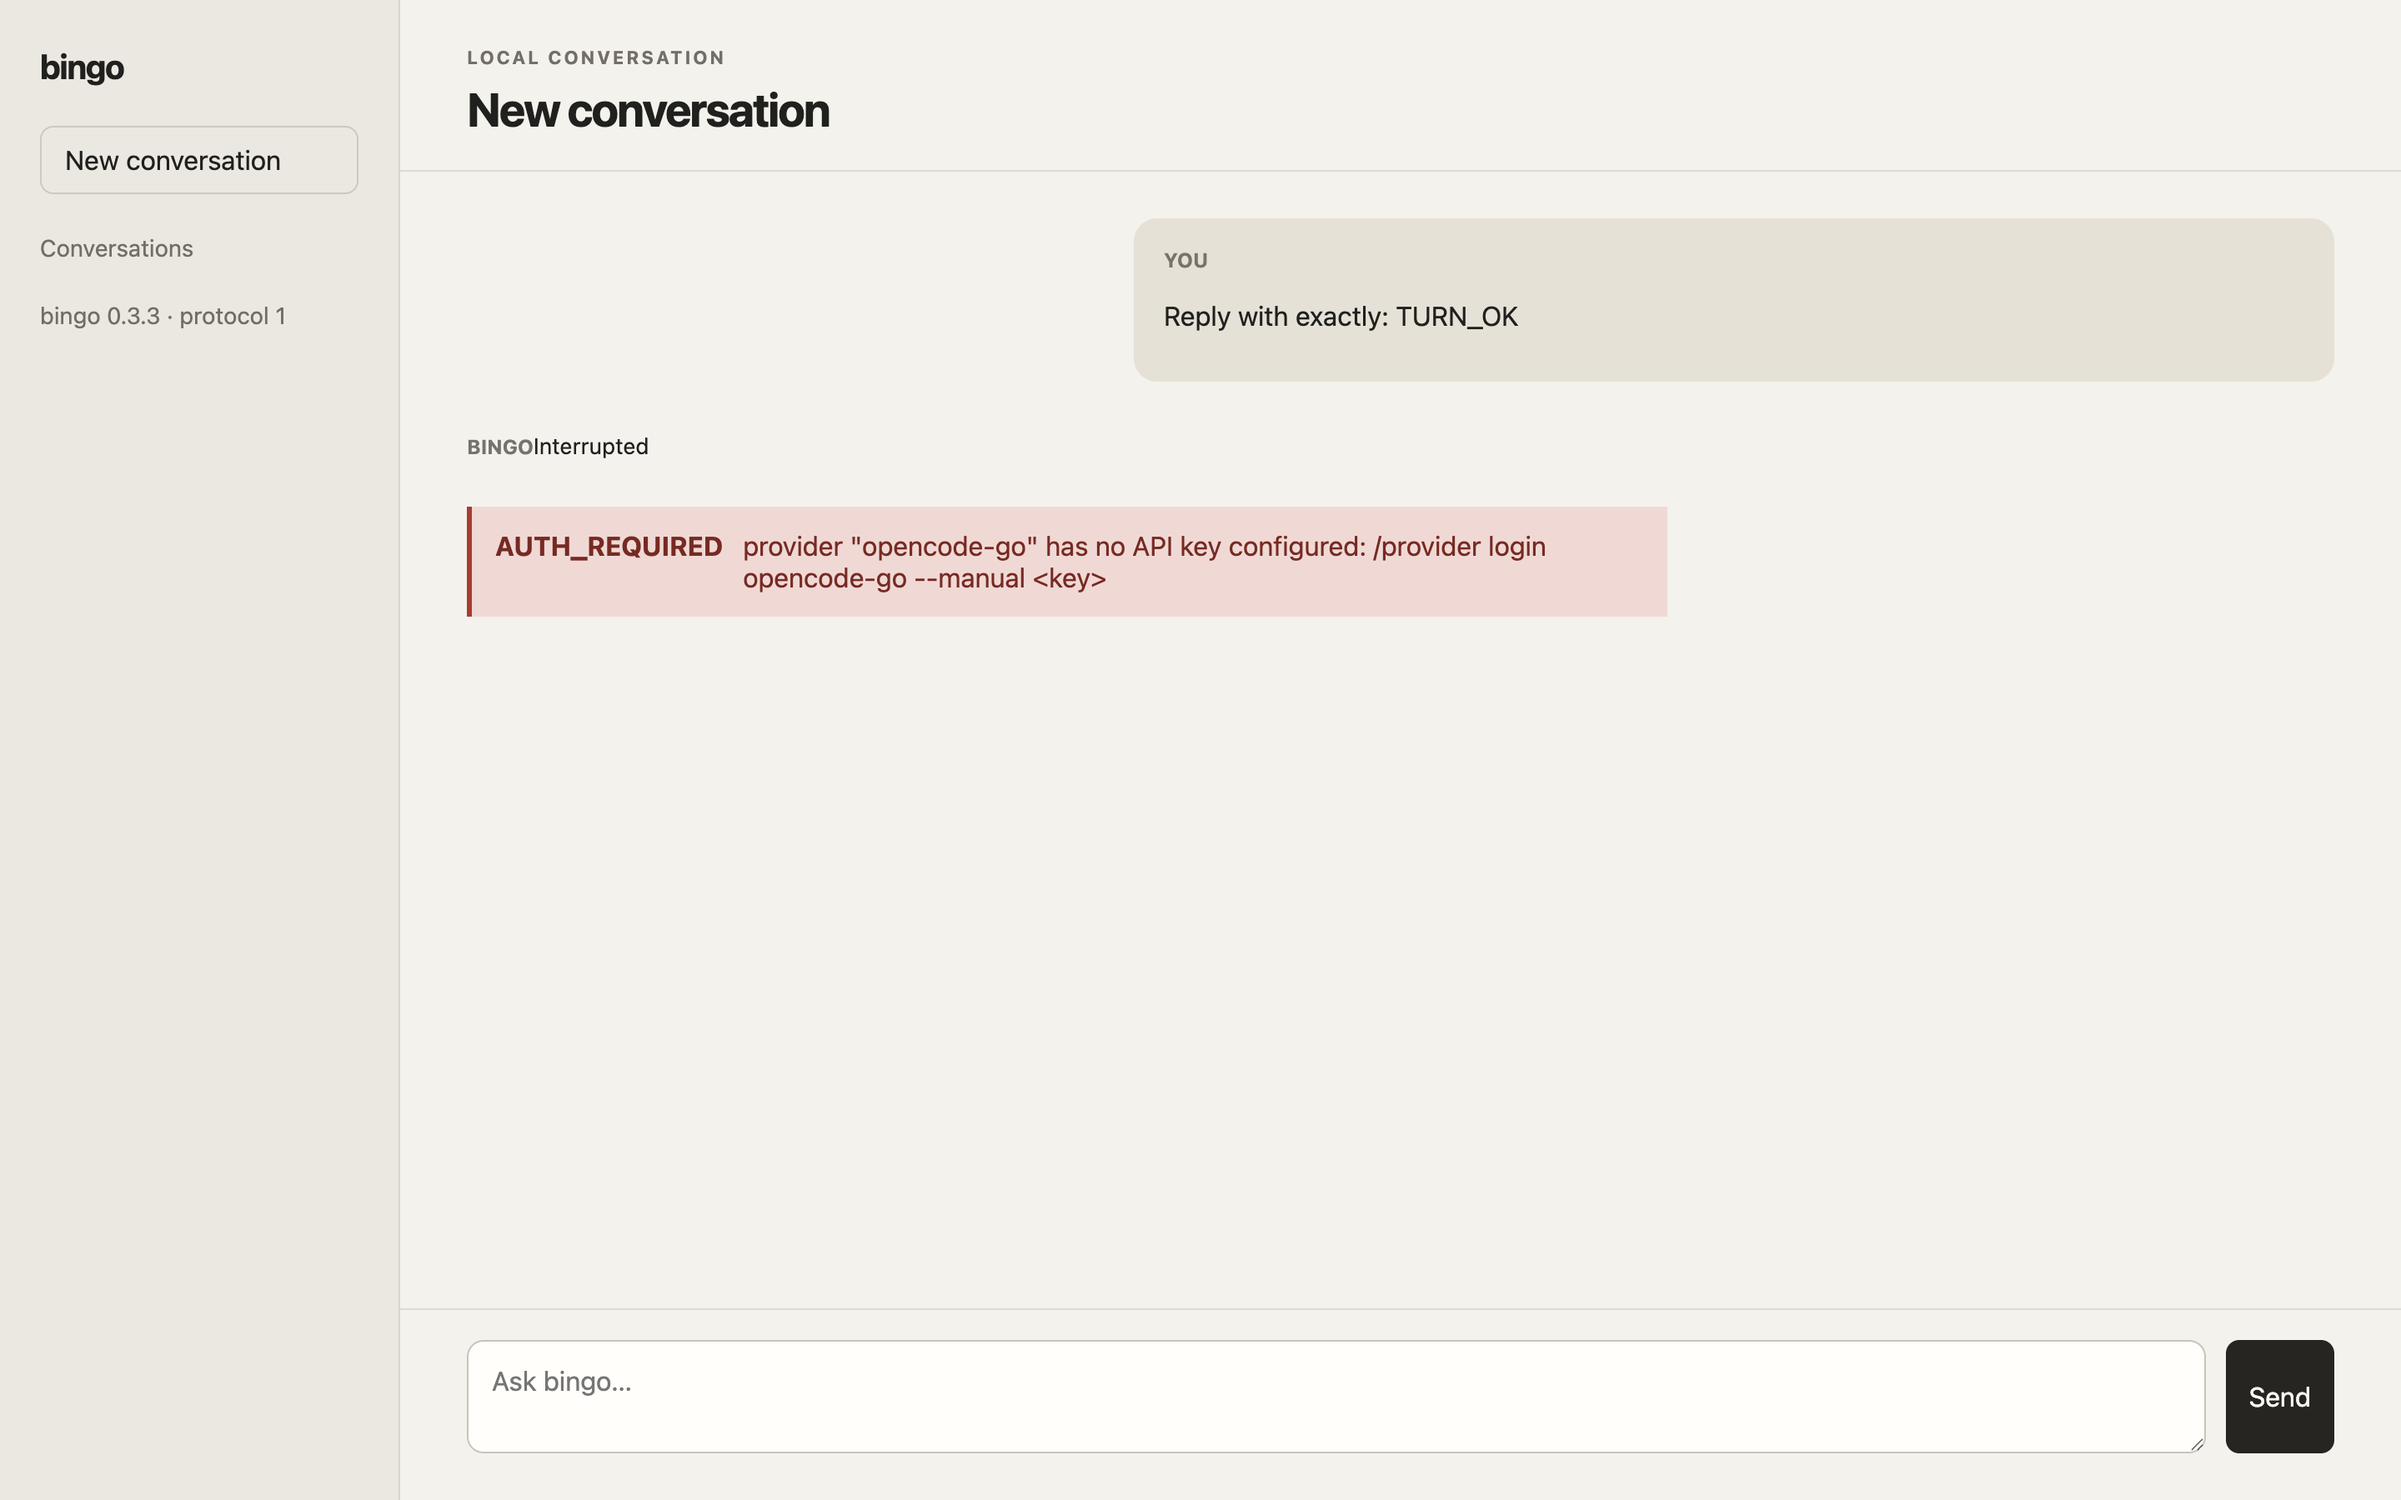
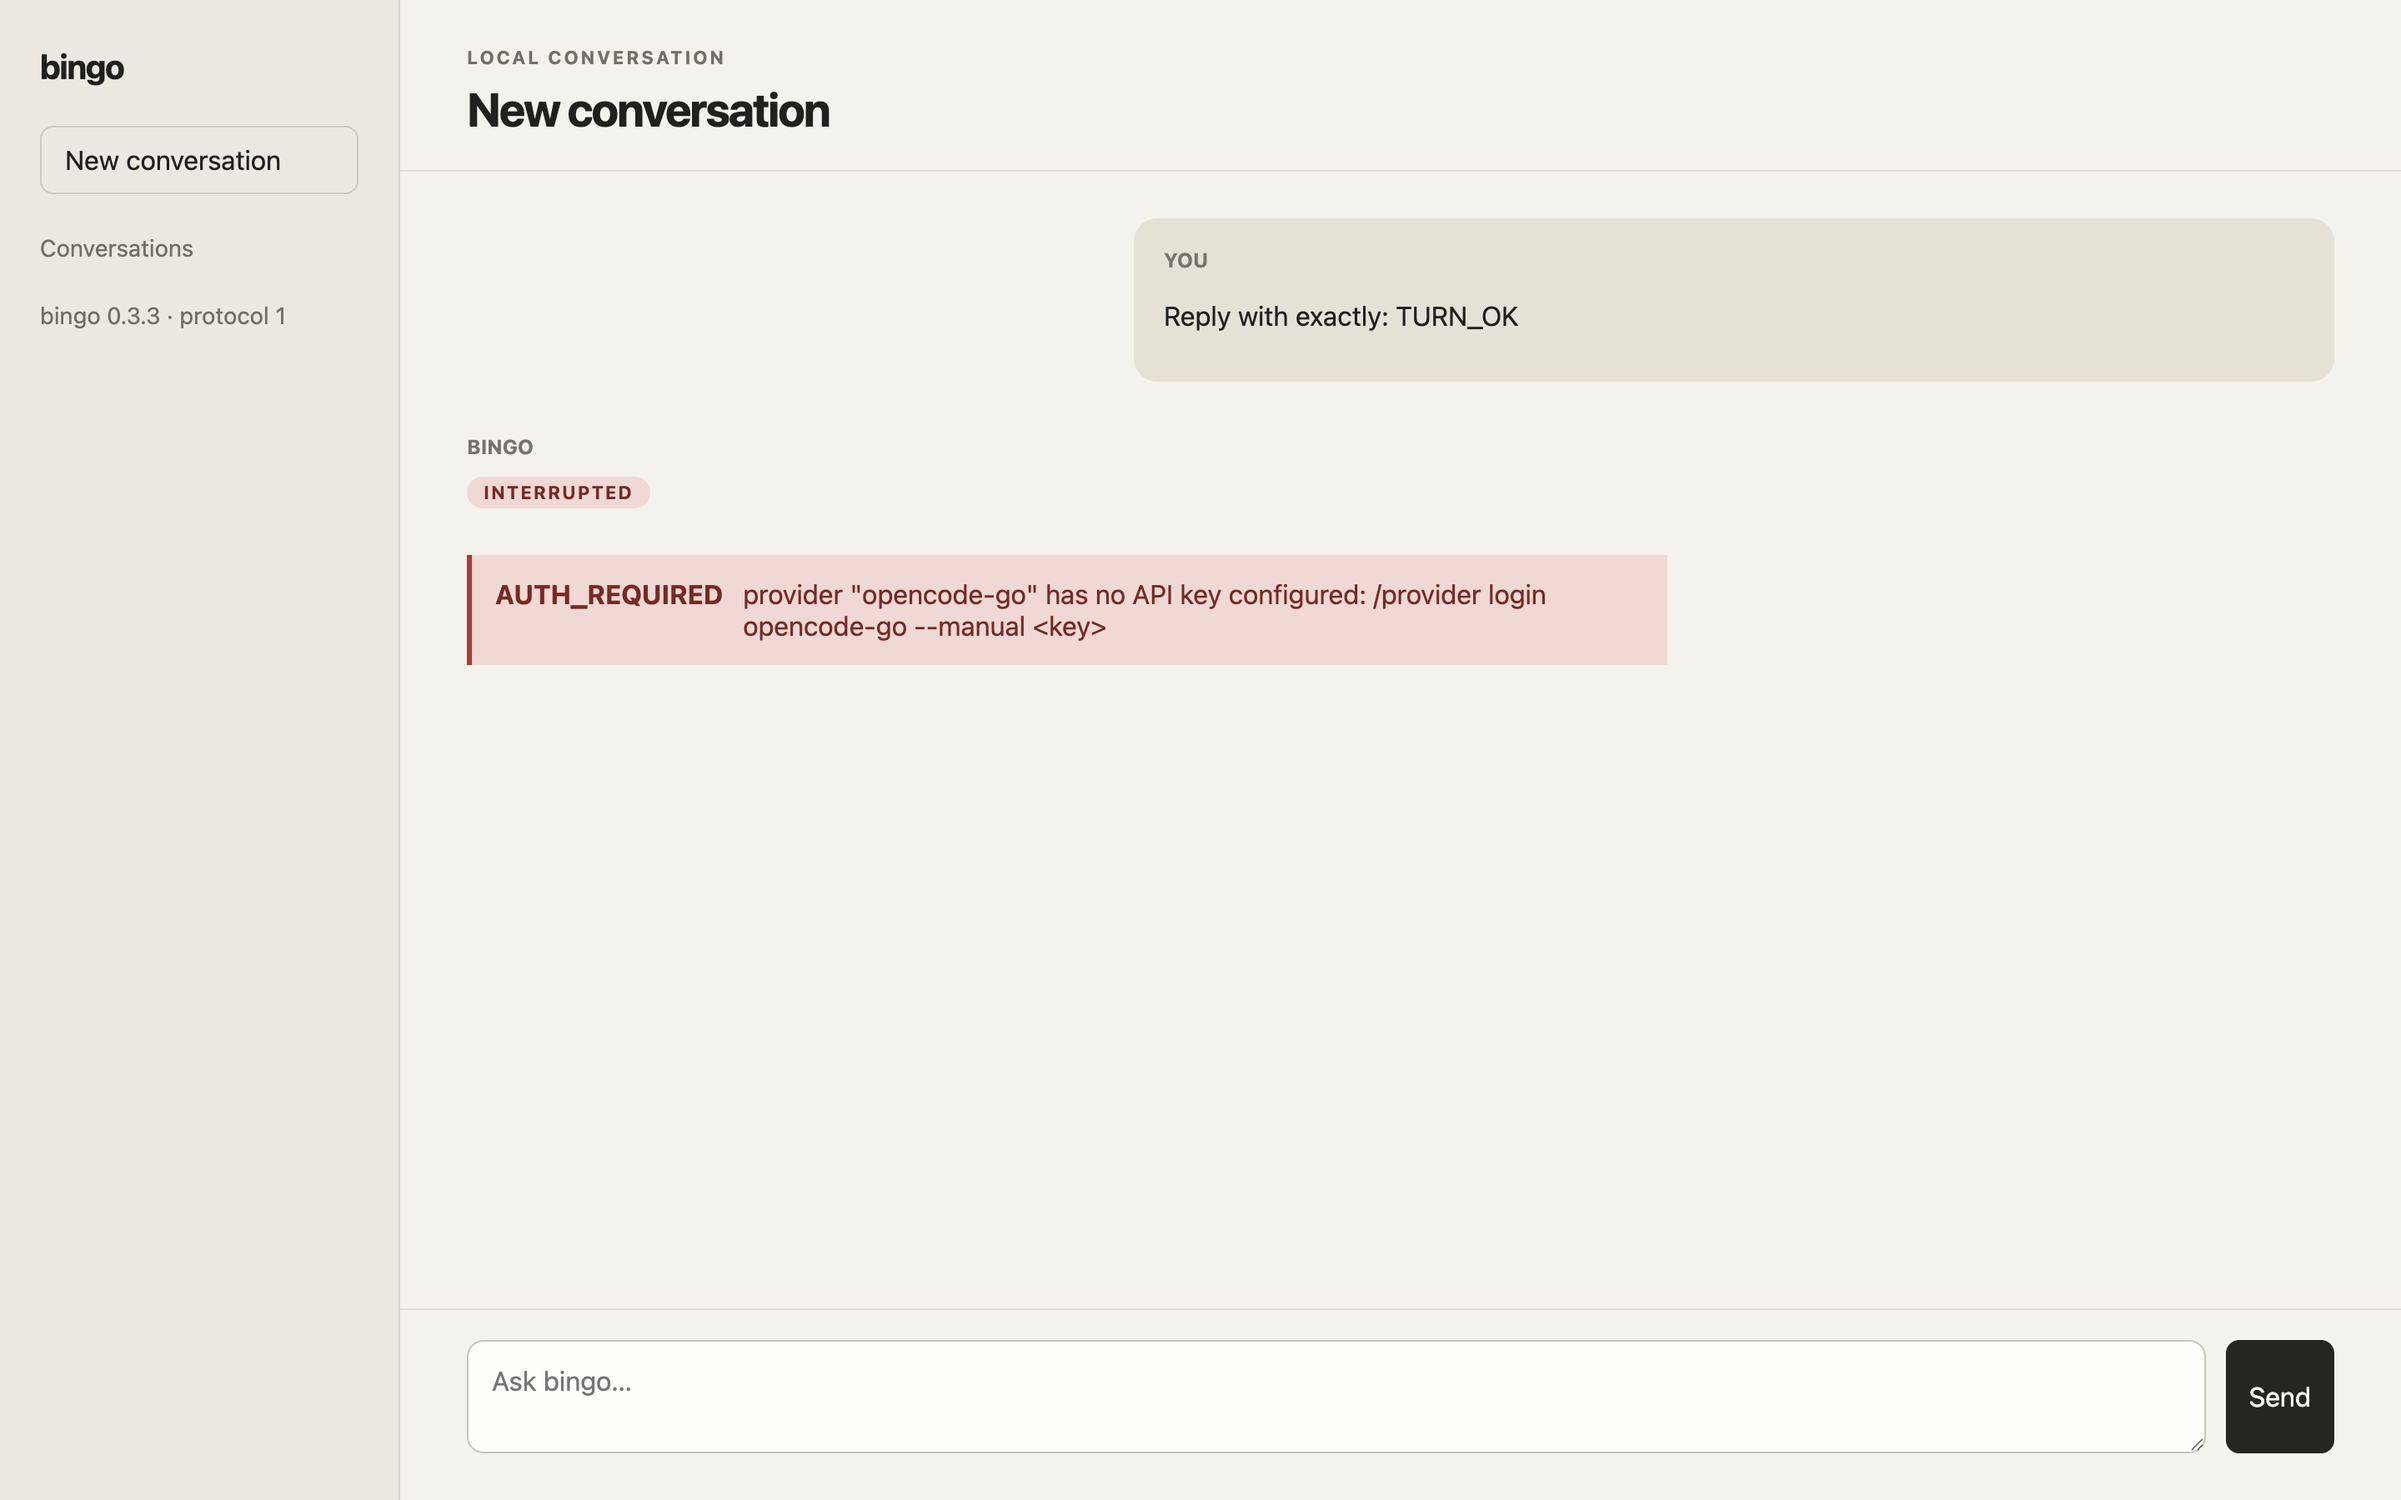
fix(ui): status badge + scroll padding; re-capture M1 visual evidence
- assistant interrupted/error status is now a distinct badge on its own line
  (fixes the BINGOInterrupted concatenation)
- timeline scroll-padding so the top message is not flush under the header
- re-captured ac-f2-3-tools / ac-f2-5-cancel / ac-f2-7-error after the fix;
  added ac-f2-3-running (tool row mid-flight, running state)

Changed region(s): [[0.1875, 0.28, 0.7188, 0.4667]]

diff --git a/src/renderer/src/styles.css b/src/renderer/src/styles.css
@@ -18,10 +18,11 @@ button { padding: 10px 14px; border: 0; border-radius: 8px; color: #f9f8f4; back
 .eyebrow { margin: 0 0 8px; color: #736f66; font-size: 11px; font-weight: 700; letter-spacing: .12em; text-transform: uppercase; }
 h1, h2 { margin: 0; letter-spacing: -.04em; }
 h1 { font-size: 28px; }
-.timeline { min-height: 0; flex: 1 1 auto; overflow: auto; padding: 28px 40px; }
+.timeline { min-height: 0; flex: 1 1 auto; overflow: auto; padding: 28px 40px; scroll-padding-top: 20px; }
 .chat-hint { color: #77736b; }
 .message { max-width: 720px; margin: 0 0 28px; }
 .message > span { color: #77736b; font-size: 12px; font-weight: 700; text-transform: uppercase; }
+.message > small { display: block; width: fit-content; margin-top: 10px; padding: 3px 10px; border-radius: 999px; font-size: 11px; font-weight: 700; color: #762a23; background: #f0d9d5; text-transform: uppercase; letter-spacing: .08em; }
 .message.user { margin-left: auto; padding: 14px 18px; border-radius: 14px; background: #e6e1d7; }
 .message pre { overflow-x: auto; padding: 14px; border-radius: 8px; background: #272621; color: #f4f2ed; }
 .tool-row { display: grid; grid-template-columns: 100px minmax(0,1fr) auto; gap: 14px; align-items: center; max-width: 720px; margin: 10px 0; padding: 12px 14px; border: 1px solid #d8d3ca; border-radius: 8px; }

diff --git a/docs/m1/ac-f2-7-error.md b/docs/m1/ac-f2-7-error.md
@@ -8,3 +8,6 @@ The real bingo process was started with `--model qa-definitely-invalid-model`, a
 - `recoverable = true`
 
 Raw records are in `ac-f2-7-error.ndjson`; diagnostics are in `ac-f2-7-error.stderr`. The GUI reducer maps a turn-scoped error to its inline error region and settles the active turn back to idle, so the composer remains usable without replacing the child. Focused reducer tests cover that state transition, but PID-stability and GUI screenshot evidence are still pending.
+
+## Update (GUI screenshot)
+- `../screenshots/m1/ac-f2-7-error.png` added: AUTH_REQUIRED inline error card + interrupted status badge, captured via the app capturePage pipeline.

diff --git a/docs/m1/ac-f2-3-tools.md b/docs/m1/ac-f2-3-tools.md
@@ -18,3 +18,7 @@
 - The earlier defect recorded by commit `8fab477` is resolved by the rebuilt worktree binary.
 
 The `BINGO_GUI_E2E_PROMPT` path in `src/main/index.ts` is evidence-only and gated by both an explicit environment variable and `!app.isPackaged`. It is not reachable in packaged production builds and will be removed after the evidence matrix is complete.
+
+## Update (CSS fix re-capture)
+- `../screenshots/m1/ac-f2-3-running.png` added: same tool turn captured mid-flight (tool row `running`).
+- `../screenshots/m1/ac-f2-3-tools.png` re-captured after the status-badge/scroll-padding CSS fix.

diff --git a/docs/m1/ac-f2-5-cancel.md b/docs/m1/ac-f2-5-cancel.md
@@ -10,3 +10,6 @@
 Raw events: `ac-f2-5-cancel.ndjson`; diagnostics: `ac-f2-5-cancel.stderr`.
 
 GUI screenshot automation for the physical Cancel click remains pending; the transport and reducer portions pass, but this document does not claim the QA 1-second UI measurement.
+
+## Update (GUI evidence)
+- `../screenshots/m1/ac-f2-5-cancel.png` re-captured after the CSS fix: the interrupted message now shows a distinct `INTERRUPTED` status badge on its own line (was `BINGOInterrupted` concatenation).
